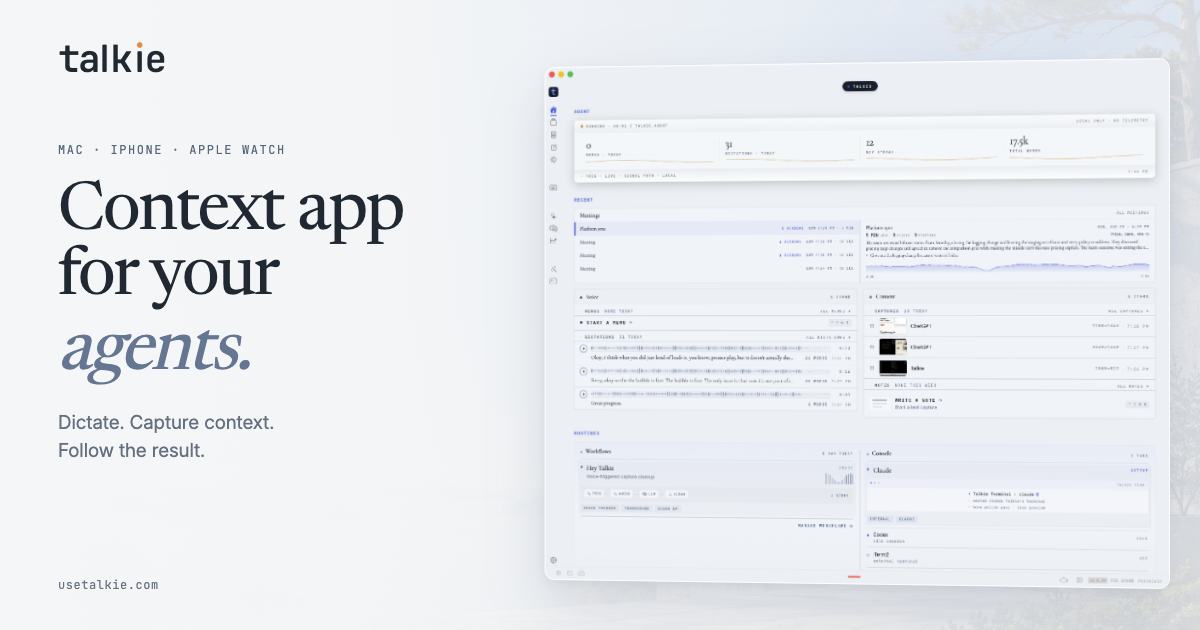
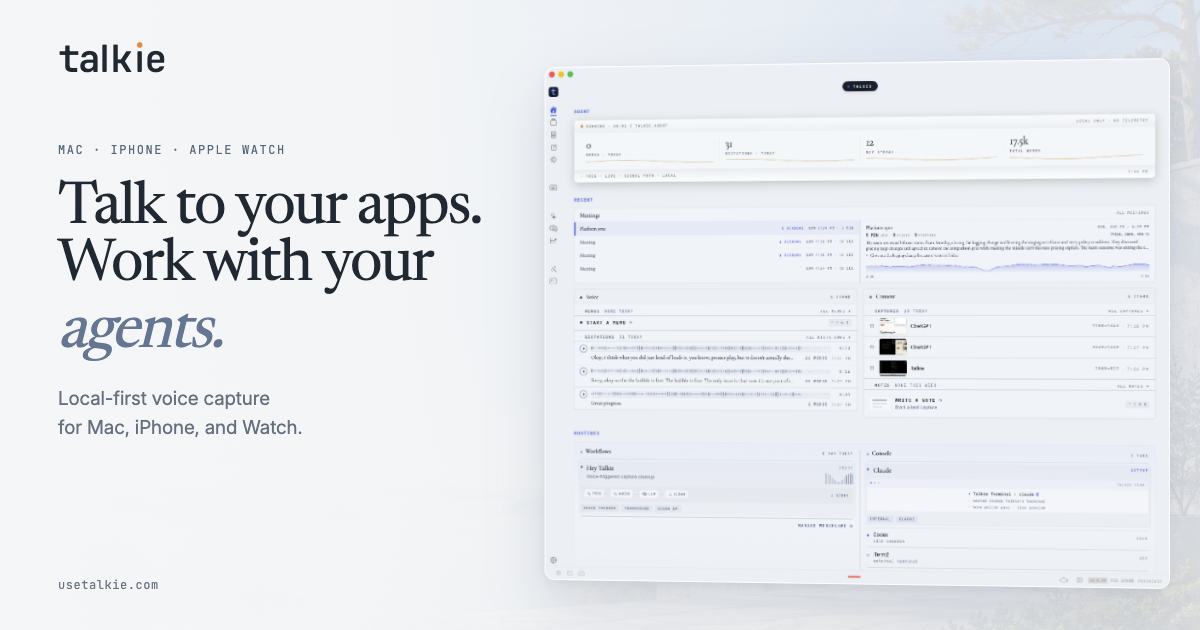
🍱 Point every page at the current social cards
Home card copy now matches the live H1. Legacy /og-image.png and /og-live.png
are overwritten with the new cards so old links and caches pick them up.

Changed region(s): [[0.0308, 0.2714, 0.4008, 0.7238]]

diff --git a/scripts/generate-og-image.js b/scripts/generate-og-image.js
@@ -13,7 +13,7 @@ const mac = asset('screenshots/mac/current/talkie-home-light.webp', 'image/webp'
 const phone = asset('screenshots/mobile/iphone-home-current.webp', 'image/webp');
 const landscape = asset('backgrounds/talkie-listening-pavilion.webp', 'image/webp');
 const cards = [
-  { slug: 'home', label: 'MAC · IPHONE · APPLE WATCH', title: 'Context app<br>for your', emphasis: 'agents.', description: 'Dictate. Capture context.<br>Follow the result.', alt: 'Talkie with its light Mac app interface' },
+  { slug: 'home', label: 'MAC · IPHONE · APPLE WATCH', title: 'Talk to your apps.<br>Work with your', emphasis: 'agents.', description: 'Local-first voice capture<br>for Mac, iPhone, and Watch.', alt: 'Talkie with its light Mac app interface' },
   { slug: 'mac', label: 'TALKIE FOR MAC', title: 'Speak.<br>See it written.', emphasis: '', description: 'Local voice dictation.<br>For the apps you use.', alt: 'Talkie for Mac showing activity and recent captures' },
   { slug: 'mobile', label: 'IPHONE + APPLE WATCH', title: 'A thought.<br>A tap.', emphasis: 'Captured.', description: 'Voice capture, wherever you are.', alt: 'Talkie for iPhone showing the home screen' },
 ];
@@ -48,6 +48,7 @@ function template(card) {
   .window{position:absolute;width:650px;right:30px;top:58px;border-radius:11px;box-shadow:0 28px 60px #34476726,0 3px 10px #34476714;border:1px solid #fff;overflow:hidden;transform:perspective(1600px) rotateY(-5deg);transform-origin:right center}
   .window img{display:block;width:100%}
   .mobile{background:#f8f6ef;color:#302e29}.mobile .wash{background:linear-gradient(90deg,#f8f6ef 0%,#f8f6efed 40%,#f8f6ef40 100%)}
+  .home h1{font-size:58px}
   .mobile .orb{background:radial-gradient(ellipse,#d6cbb270,transparent 68%)}.mobile h1{font-size:78px}.mobile em{color:#8a785c}.mobile .copy{top:153px}.mobile .description{margin-top:28px}
   .phone-section{position:absolute;left:600px;top:0;width:600px;height:630px;overflow:hidden;background:linear-gradient(145deg,#eeece4e8,#dedbcde0);border-left:1px solid #d8d4c680}.phone{position:absolute;left:100px;top:58px;width:400px;padding:9px;background:linear-gradient(135deg,#807c73,#242522 25%,#75736e 60%,#242522);border-radius:58px;box-shadow:0 28px 48px #3e392a30,0 0 0 1px #6a685d}
   .phone img{display:block;width:100%;border-radius:49px}.island{position:absolute;width:108px;height:29px;background:#181917;border-radius:20px;top:22px;left:calc(50% - 54px)}

diff --git a/app/tour/page.jsx b/app/tour/page.jsx
@@ -14,7 +14,7 @@ export const metadata = {
     description: PAGE_DESCRIPTION,
     url: 'https://usetalkie.com/tour/',
     siteName: 'Talkie',
-    images: [{ url: '/og-image.png', width: 1200, height: 630, alt: 'Talkie Tour' }],
+    images: [{ url: '/og/home.png', width: 1200, height: 630, alt: 'Talkie Tour' }],
     locale: 'en_US',
     type: 'website',
   },
@@ -22,7 +22,7 @@ export const metadata = {
     card: 'summary_large_image',
     title: PAGE_TITLE,
     description: PAGE_DESCRIPTION,
-    images: ['/og-image.png'],
+    images: ['/og/home.png'],
   },
 }
 

diff --git a/app/live/page.jsx b/app/live/page.jsx
@@ -17,7 +17,7 @@ export const metadata = {
     siteName: 'Talkie',
     images: [
       {
-        url: '/og-live.png',
+        url: '/og/mac.png',
         width: 1200,
         height: 630,
         alt: 'Talkie Dictation',
@@ -31,7 +31,7 @@ export const metadata = {
     title: 'Talkie Live Dictation for Mac',
     description:
       'Talkie for Mac is local-first voice dictation. Speak into any app, keep searchable captures, and run workflows. Current build free; $39 license planned.',
-    images: ['/og-live.png'],
+    images: ['/og/mac.png'],
   },
 }
 

diff --git a/app/dictation/page.jsx b/app/dictation/page.jsx
@@ -17,7 +17,7 @@ export const metadata = {
     siteName: 'Talkie',
     images: [
       {
-        url: '/og-live.png',
+        url: '/og/mac.png',
         width: 1200,
         height: 630,
         alt: 'Talkie Dictation',
@@ -31,7 +31,7 @@ export const metadata = {
     title: 'Talkie Dictation for Mac',
     description:
       'Talkie for Mac is local-first voice dictation. Speak into any app, keep searchable captures, and run workflows. Current build free; $39 license planned.',
-    images: ['/og-live.png'],
+    images: ['/og/mac.png'],
   },
 }
 

diff --git a/app/about/page.jsx b/app/about/page.jsx
@@ -28,13 +28,13 @@ export const metadata = {
     siteName: 'Talkie',
     locale: 'en_US',
     type: 'website',
-    images: [{ url: '/og-image.png', width: 1200, height: 630, alt: pageMetadata.title }],
+    images: [{ url: '/og/home.png', width: 1200, height: 630, alt: pageMetadata.title }],
   },
   twitter: {
     card: 'summary_large_image',
     title: pageMetadata.title,
     description: pageMetadata.description,
-    images: ['/og-image.png'],
+    images: ['/og/home.png'],
   },
 }
 

diff --git a/app/brand/page.jsx b/app/brand/page.jsx
@@ -17,13 +17,13 @@ export const metadata = {
     siteName: 'Talkie',
     locale: 'en_US',
     type: 'website',
-    images: [{ url: '/og-image.png', width: 1200, height: 630, alt: pageMetadata.title }],
+    images: [{ url: '/og/home.png', width: 1200, height: 630, alt: pageMetadata.title }],
   },
   twitter: {
     card: 'summary_large_image',
     title: pageMetadata.title,
     description: pageMetadata.description,
-    images: ['/og-image.png'],
+    images: ['/og/home.png'],
   },
 }
 

diff --git a/app/downloads/page.jsx b/app/downloads/page.jsx
@@ -19,13 +19,13 @@ export const metadata = {
     siteName: 'Talkie',
     locale: 'en_US',
     type: 'website',
-    images: [{ url: '/og-image.png', width: 1200, height: 630, alt: PAGE_TITLE }],
+    images: [{ url: '/og/home.png', width: 1200, height: 630, alt: PAGE_TITLE }],
   },
   twitter: {
     card: 'summary_large_image',
     title: PAGE_TITLE,
     description: PAGE_DESCRIPTION,
-    images: ['/og-image.png'],
+    images: ['/og/home.png'],
   },
 }
 

diff --git a/app/security/page.jsx b/app/security/page.jsx
@@ -19,7 +19,7 @@ export const metadata = {
     siteName: 'Talkie',
     images: [
       {
-        url: '/og-image.png',
+        url: '/og/home.png',
         width: 1200,
         height: 630,
         alt: 'Talkie security and privacy',
@@ -32,7 +32,7 @@ export const metadata = {
     card: 'summary_large_image',
     title: PAGE_TITLE,
     description: PAGE_DESCRIPTION,
-    images: ['/og-image.png'],
+    images: ['/og/home.png'],
   },
 }
 

diff --git a/app/demo/page.jsx b/app/demo/page.jsx
@@ -11,7 +11,7 @@ export const metadata = {
   openGraph: {
     title: 'Demo - Talkie',
     description: 'See Talkie in action. Watch how voice-to-action works on your Mac.',
-    images: ['/og-image.png'],
+    images: ['/og/home.png'],
   },
 }
 
